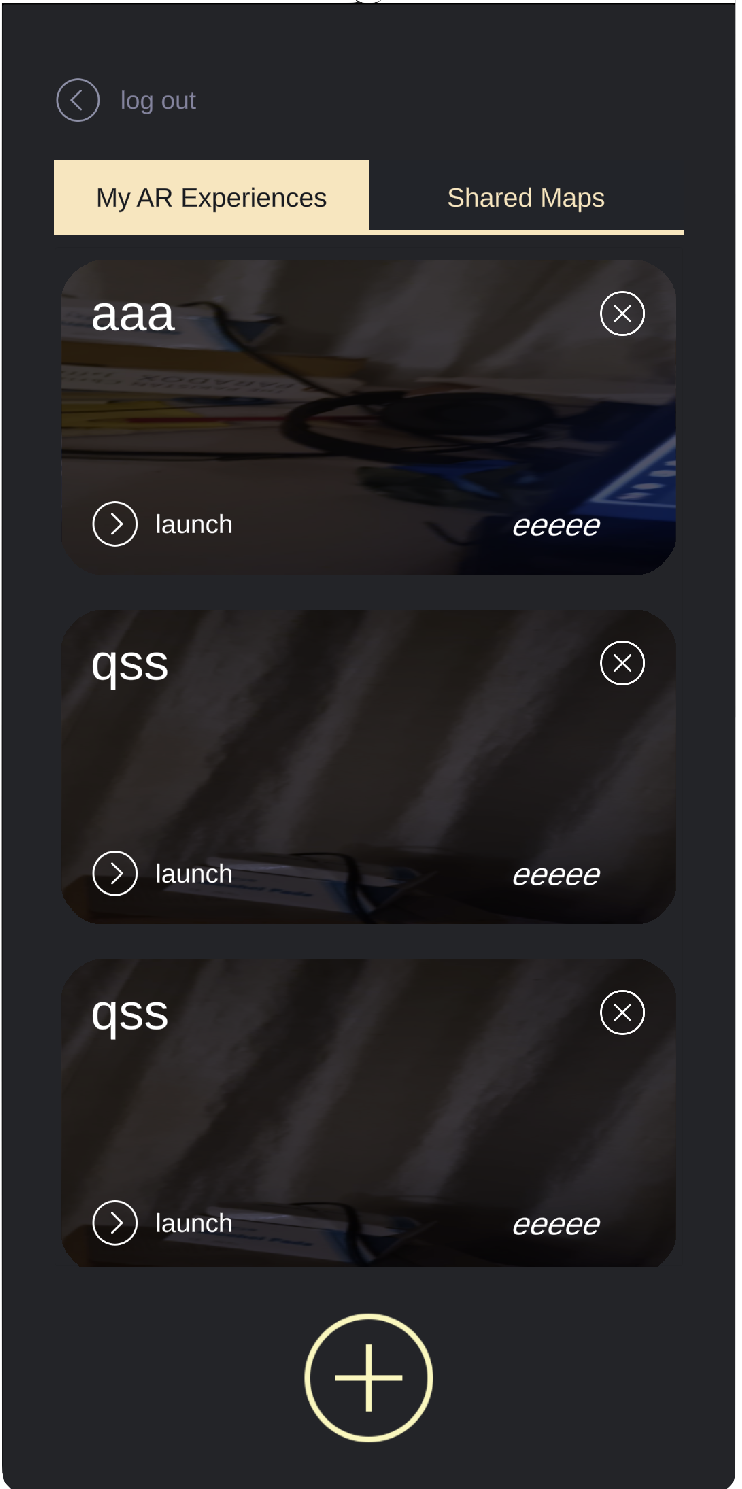
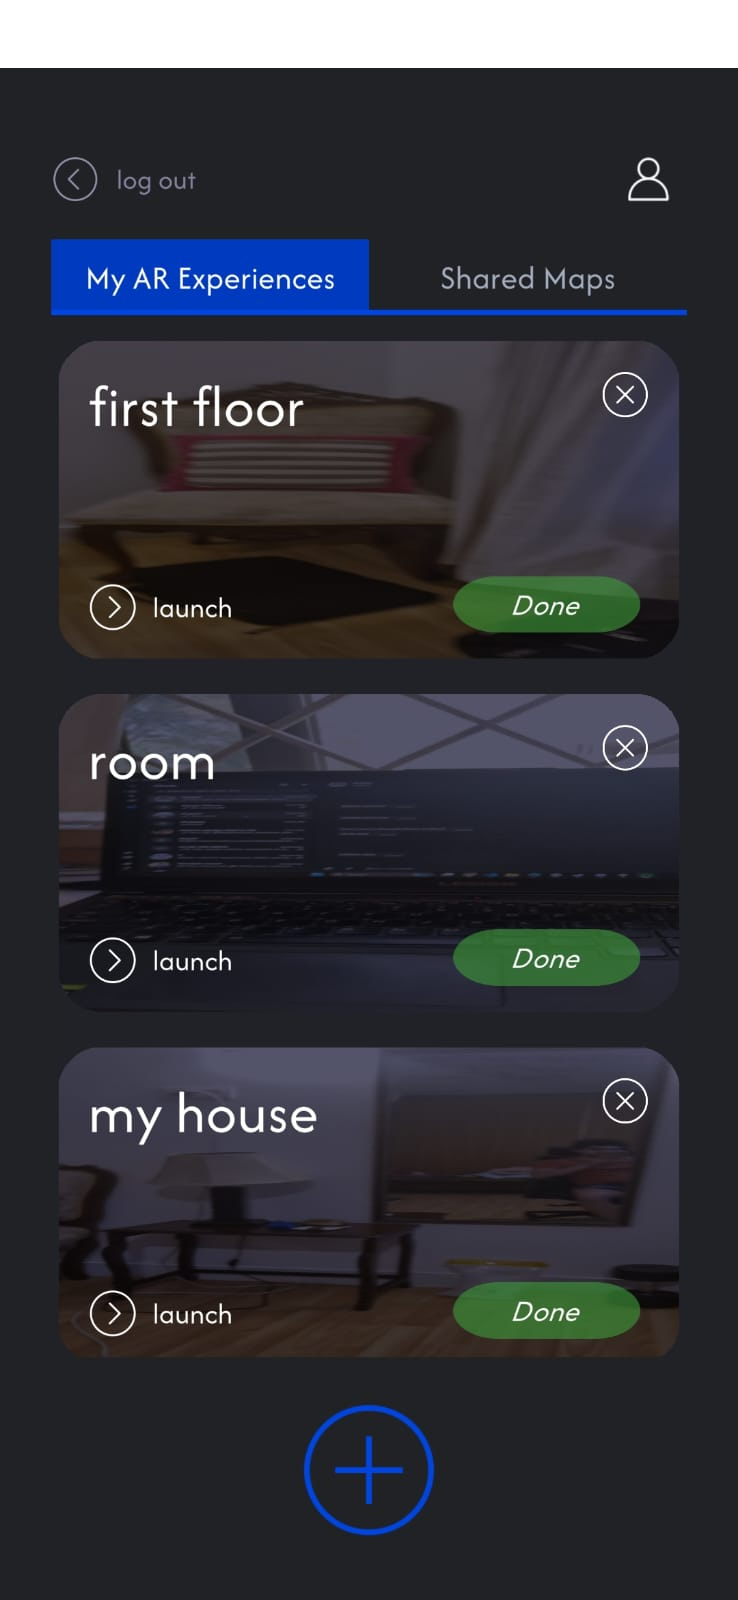
Replaced images in README.md with latest ones

diff --git a/README.md b/README.md
@@ -17,6 +17,7 @@ Wander is a mobile application designed for indoor navigation  through the use o
 <p align="center">
   <img src="Assets/ImmersalSDK/Samples/Images/mapping1.png" height="400" hspace="20"/>
   <img src="Assets/ImmersalSDK/Samples/Images/mapping2.png" height="400" hspace="20" /> 
+  <img src="Assets/ImmersalSDK/Samples/Images/mapping3.png" height="400" hspace="20" /> 
 </p>
 
 - Content Placement: Involves positioning virtual elements, like text and images, within the real environment through spatial anchoring and localization techniques. 
@@ -32,10 +33,8 @@ Wander is a mobile application designed for indoor navigation  through the use o
   - Navigation Pathfinding: Navigational Graph is created and shortest path is calculated using A* algorithm.
 
 <p align="center">
-  <img src="Assets/ImmersalSDK/Samples/Images/navigation1.png" height="400" hspace="5" />
-  <img src="Assets/ImmersalSDK/Samples/Images/navigation2.png" height="400" hspace="5" /> 
-  <img src="Assets/ImmersalSDK/Samples/Images/navigation3.png" height="400" hspace="5"/>
-  <img src="Assets/ImmersalSDK/Samples/Images/navigation4.png" height="400" hspace="5" />
+  <img src="Assets/ImmersalSDK/Samples/Images/navigation1.png" height="400" hspace="20" />
+  <img src="Assets/ImmersalSDK/Samples/Images/navigation2.png" height="400" hspace="20" /> 
 </p>
 
 - Home Screen: Retrieves all private and public map information from the firestore database and allows users to add new maps to the collection.
@@ -43,6 +42,7 @@ Wander is a mobile application designed for indoor navigation  through the use o
 <p align="center">
   <img src="Assets/ImmersalSDK/Samples/Images/homescreen1.png" height="400" hspace="20"/>
   <img src="Assets/ImmersalSDK/Samples/Images/homescreen2.png" height="400" hspace="20" /> 
+  <img src="Assets/ImmersalSDK/Samples/Images/homescreen3.png" height="400" hspace="20" /> 
 </p>
 
  
